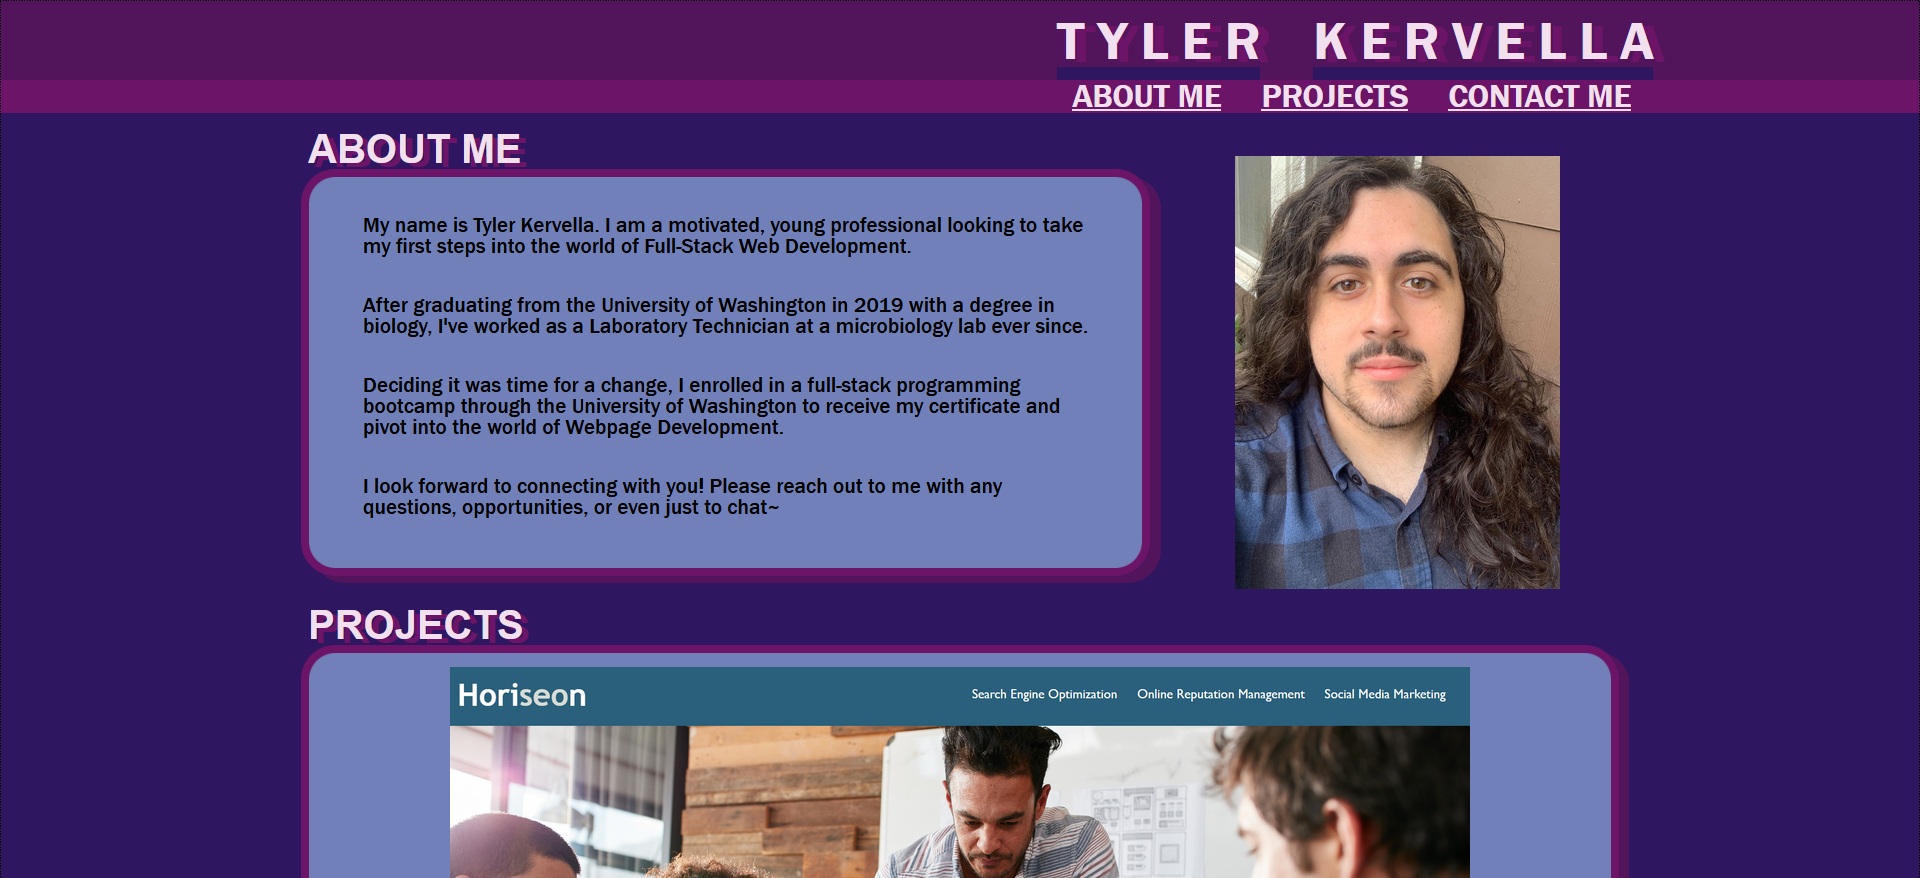
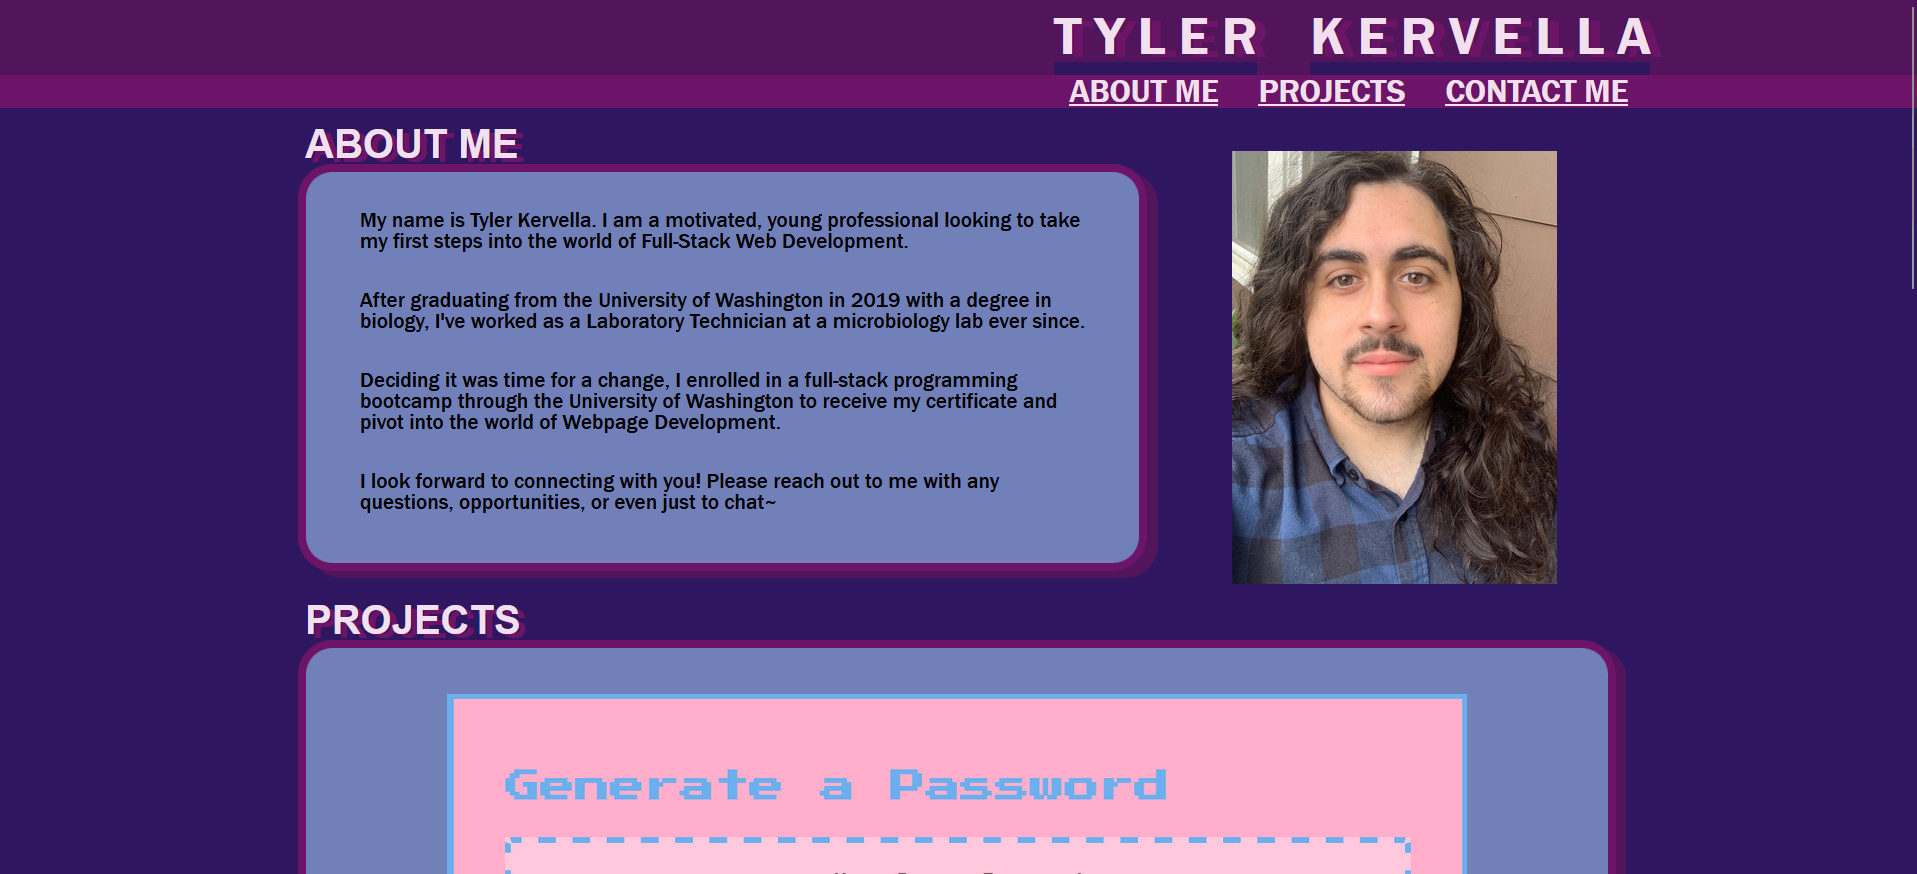
updated projects, fixed styling of interactivity of projects/contacts

diff --git a/assets/css/style.css b/assets/css/style.css
@@ -174,8 +174,11 @@ nav a:active {
     
 #featured img {
     display: block;
-    margin: 0 auto;
-    min-height: 300px;
+    margin-left: auto;
+    margin-right: auto;
+    margin-top: 2.5%;
+    margin-bottom: 2.5%;
+    min-height: 200px;
     height: auto;
     width: 80%;
 }
@@ -190,7 +193,7 @@ nav a:active {
     display: block;
     margin: auto;
     height: auto;
-    width: 70%;
+    width: 100%;
 }
 
 /* Interactivity for #projects .cards */
@@ -201,7 +204,7 @@ nav a:active {
 
 #featured2:hover, #showcase:hover {
     border-color: black;
-    background-color: var(--dark);
+    background-color: var(--special);
     box-shadow: none;
 }
 
@@ -213,12 +216,16 @@ nav a:active {
 
 .info-box {
     height: 80px;
-    width: 150px;
+    width: 250px;
     bottom: 20px;
     left: 0px;
     position: absolute;
     background-color: var(--light);
     padding-top: 10px;
+}
+
+.info-box h3 {
+    text-decoration: underline;
 }
 
 /* New parent flexbox element within #contact-me section of main */
@@ -254,14 +261,11 @@ button:focus  {
 }
 
 button:hover {
-    background-color: var(--dark);
+    background-color: var(--special);
     border-color: black;
 }
 
-button:hover h3,
-button:hover p {
-    color: var(--special);
-}
+
 
 button:active {
     box-shadow: 0 0 8px black inset;
@@ -344,8 +348,8 @@ footer {
 
     /*Styles Showcase image to remain the largest on the page, even in mobile browser  */
     #showcase img {
-        height: 150px;
-        width: 80%;
+        height: 250px;
+        width: 100%;
     }
 
 

diff --git a/index.html b/index.html
@@ -59,20 +59,20 @@
             <div id="featured">
             
                 <div class="cards" id="featured2">
-                    <a href="https://github.com/tykervella/Horiseon-Refactor-Challenge-1" target="_blank"><img src="./assets/featured-project.png"/></a>
+                    <a href="https://github.com/tykervella/Password-dot-com" target="_blank"><img src="./assets/featured-project.png"/></a>
                     <div class="info-box">
-                        <h3>Code Refactor</h3>
-                        <p>HTML/CSS Cleanup</p>
+                        <h3>Password Generator</h3>
+                        <p>Utilizing Javascript to create a random, secure password generator</p>
                     </div>
                 </div>
     
             </div>
 
             <div class="cards" id="showcase">
-                <a href="#" target="_blank"><img src="./assets/project2.png"/></a>
+                <a href="https://github.com/tykervella/Horiseon-Refactor-Challenge-1" target="_blank"><img src="./assets/project2.png"/></a>
                 <div class="info-box">
-                    <h3>Project 2</h3>
-                    <p>Description Here</p>
+                    <h3>Code Refactor</h3>
+                    <p>Added Semantic HTML elements and cleaned up CSS from source code</p>
                 </div>
             </div>
 
